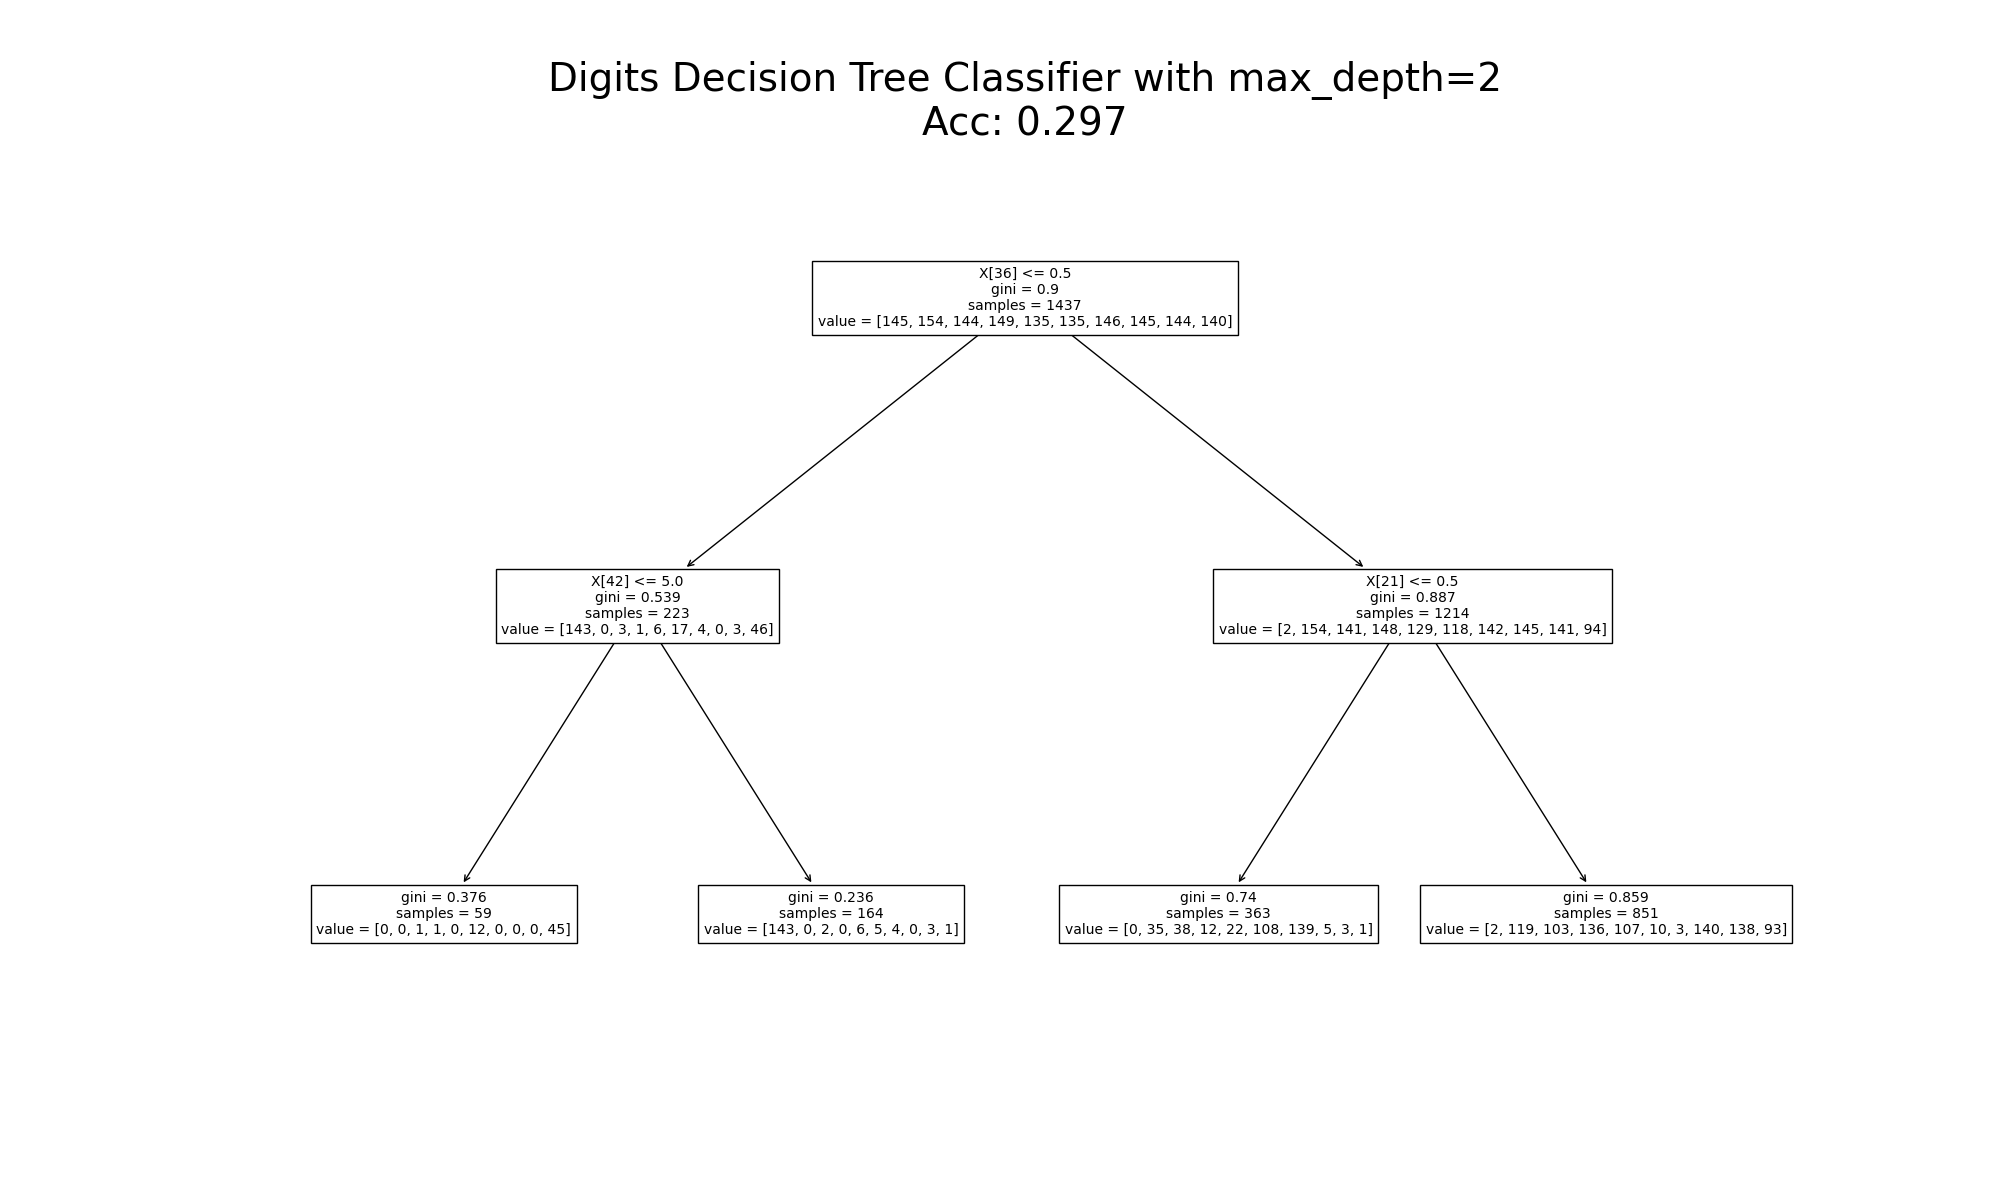
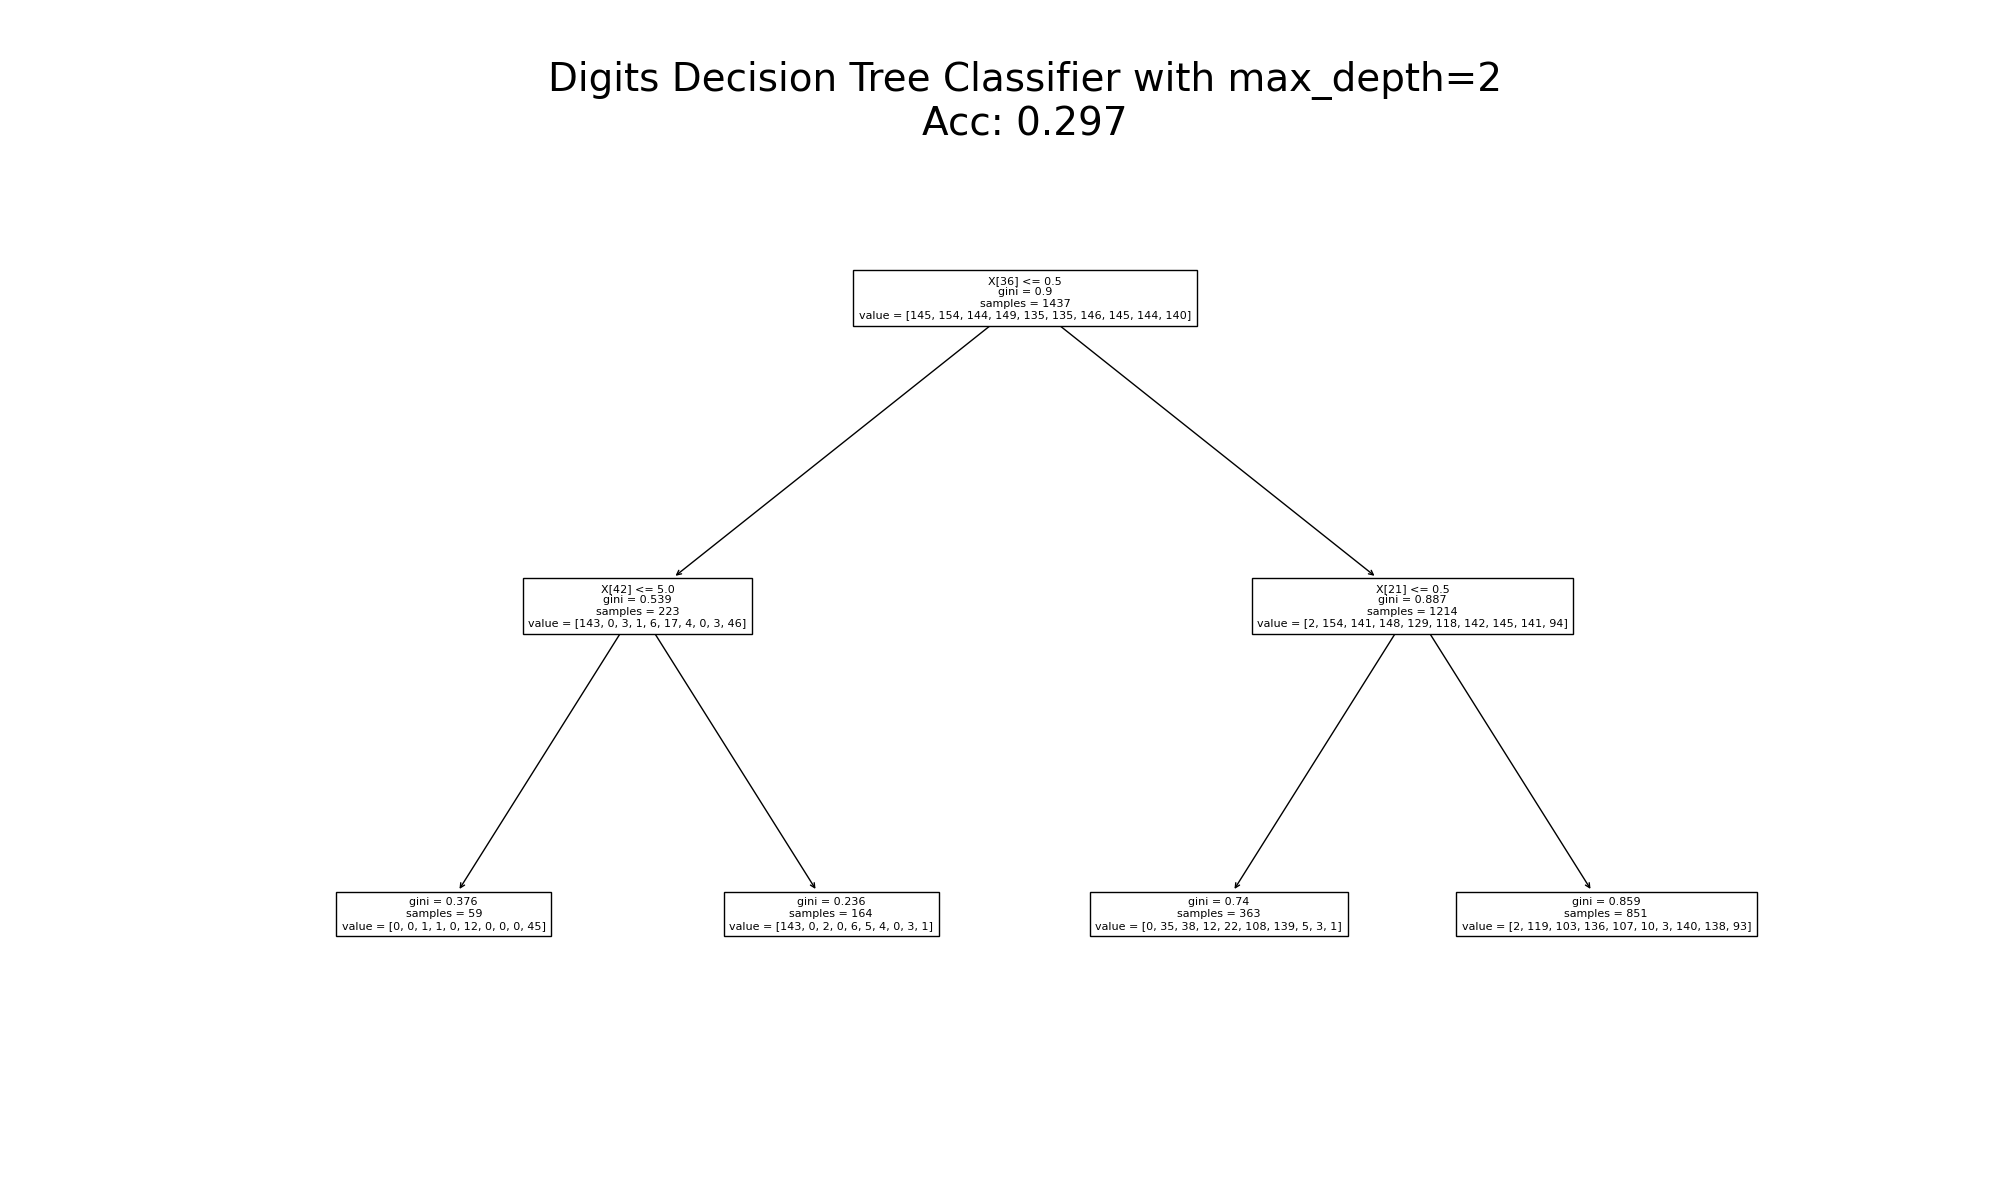
remove files

diff --git a/6.2/main.py b/6.2/main.py
@@ -18,9 +18,10 @@ def classify(dataset, name):
     acc = accuracy_score(y_test, y_pred)
     plt.figure(figsize=(20, 12))
     tree.plot_tree(clf, fontsize=10)
-    plt.title("{} Decision Tree Classifier\nAcc: {:.3f}".format(name, acc), fontsize = 28)
+    plt.title("{} Decision Tree Classifier\nAcc: {:.3f}".format(name, acc), fontsize=28)
     plt.savefig('{}.1.png'.format(name.strip().lower()))
     print('Decision tree acc: {}'.format(acc))
+    print('Decision tree nodes: {}'.format(clf.get_n_leaves()))
 
     # Second algorithm
     clf = tree.DecisionTreeClassifier(max_depth=2)
@@ -28,10 +29,11 @@ def classify(dataset, name):
     y_pred = clf.predict(X_test)
     acc = accuracy_score(y_test, y_pred)
     plt.figure(figsize=(20, 12))
-    tree.plot_tree(clf, fontsize=10)
+    tree.plot_tree(clf, fontsize=8)
     plt.title("{} Decision Tree Classifier with max_depth=2\nAcc: {:.3f}".format(name, acc), fontsize=28)
     plt.savefig('{}.2.png'.format(name.strip().lower()))
     print('Decision tree (max depth=2) acc: {}'.format(acc))
+    print('Decision tree nodes: {}'.format(clf.get_n_leaves()))
 
 if __name__ == '__main__':
     classify(load_breast_cancer(as_frame=True), 'Breast Cancer')
